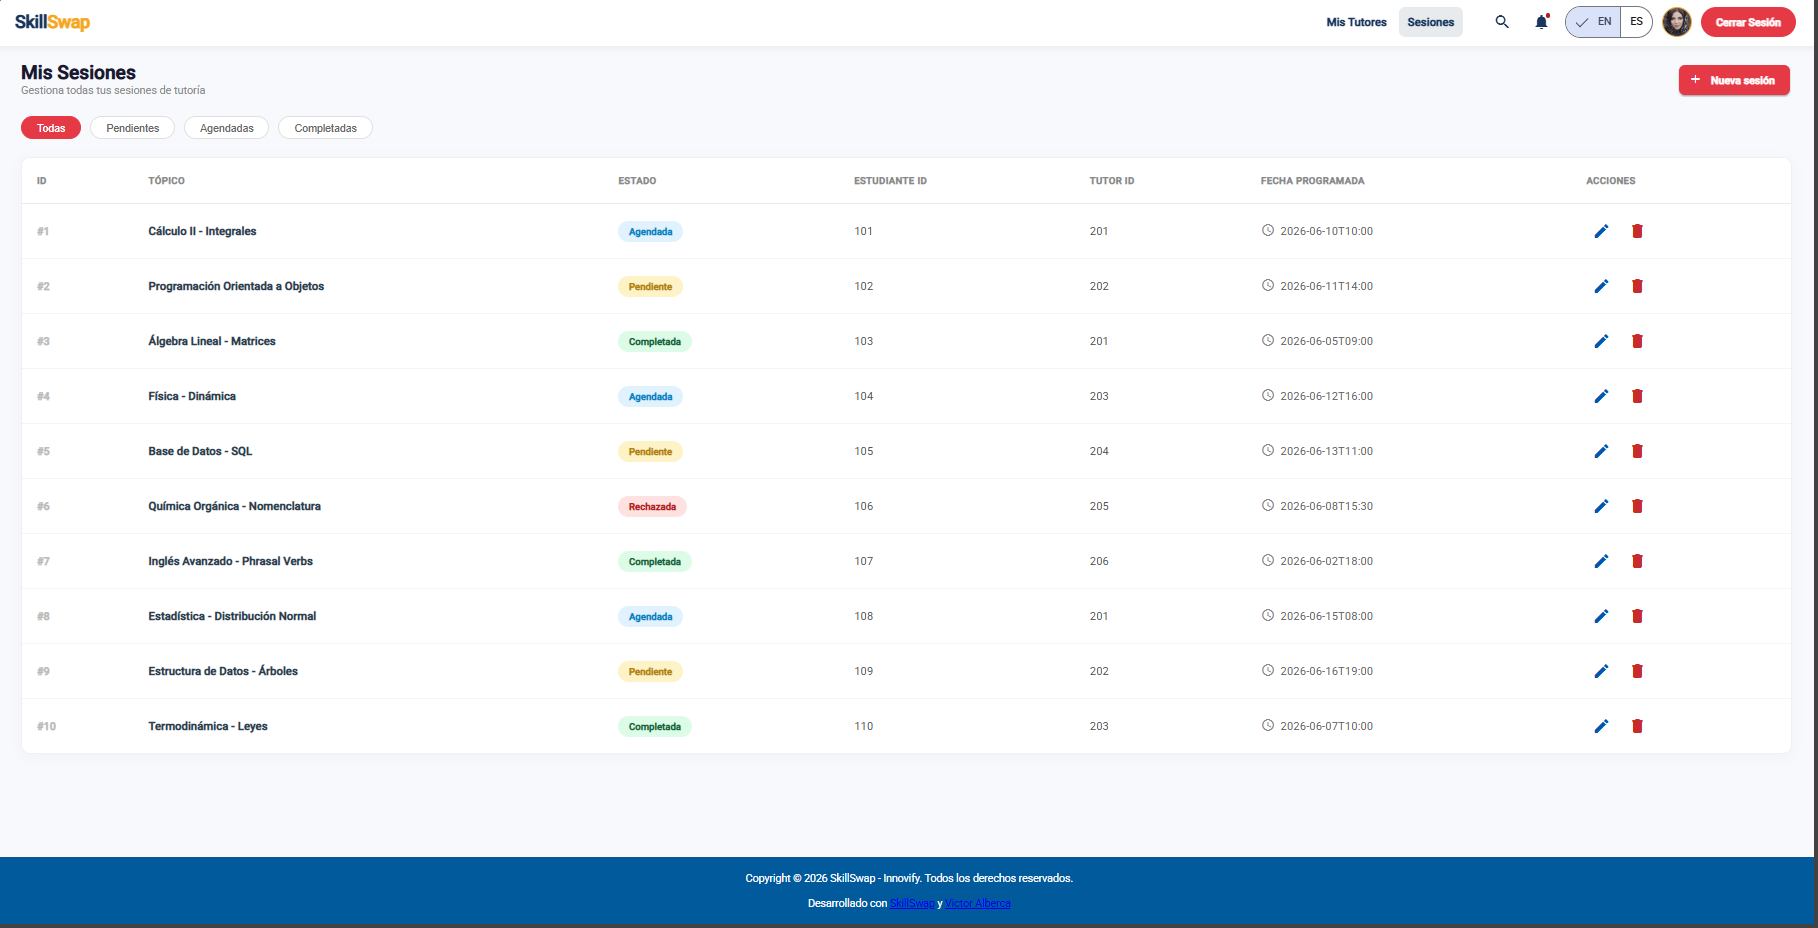
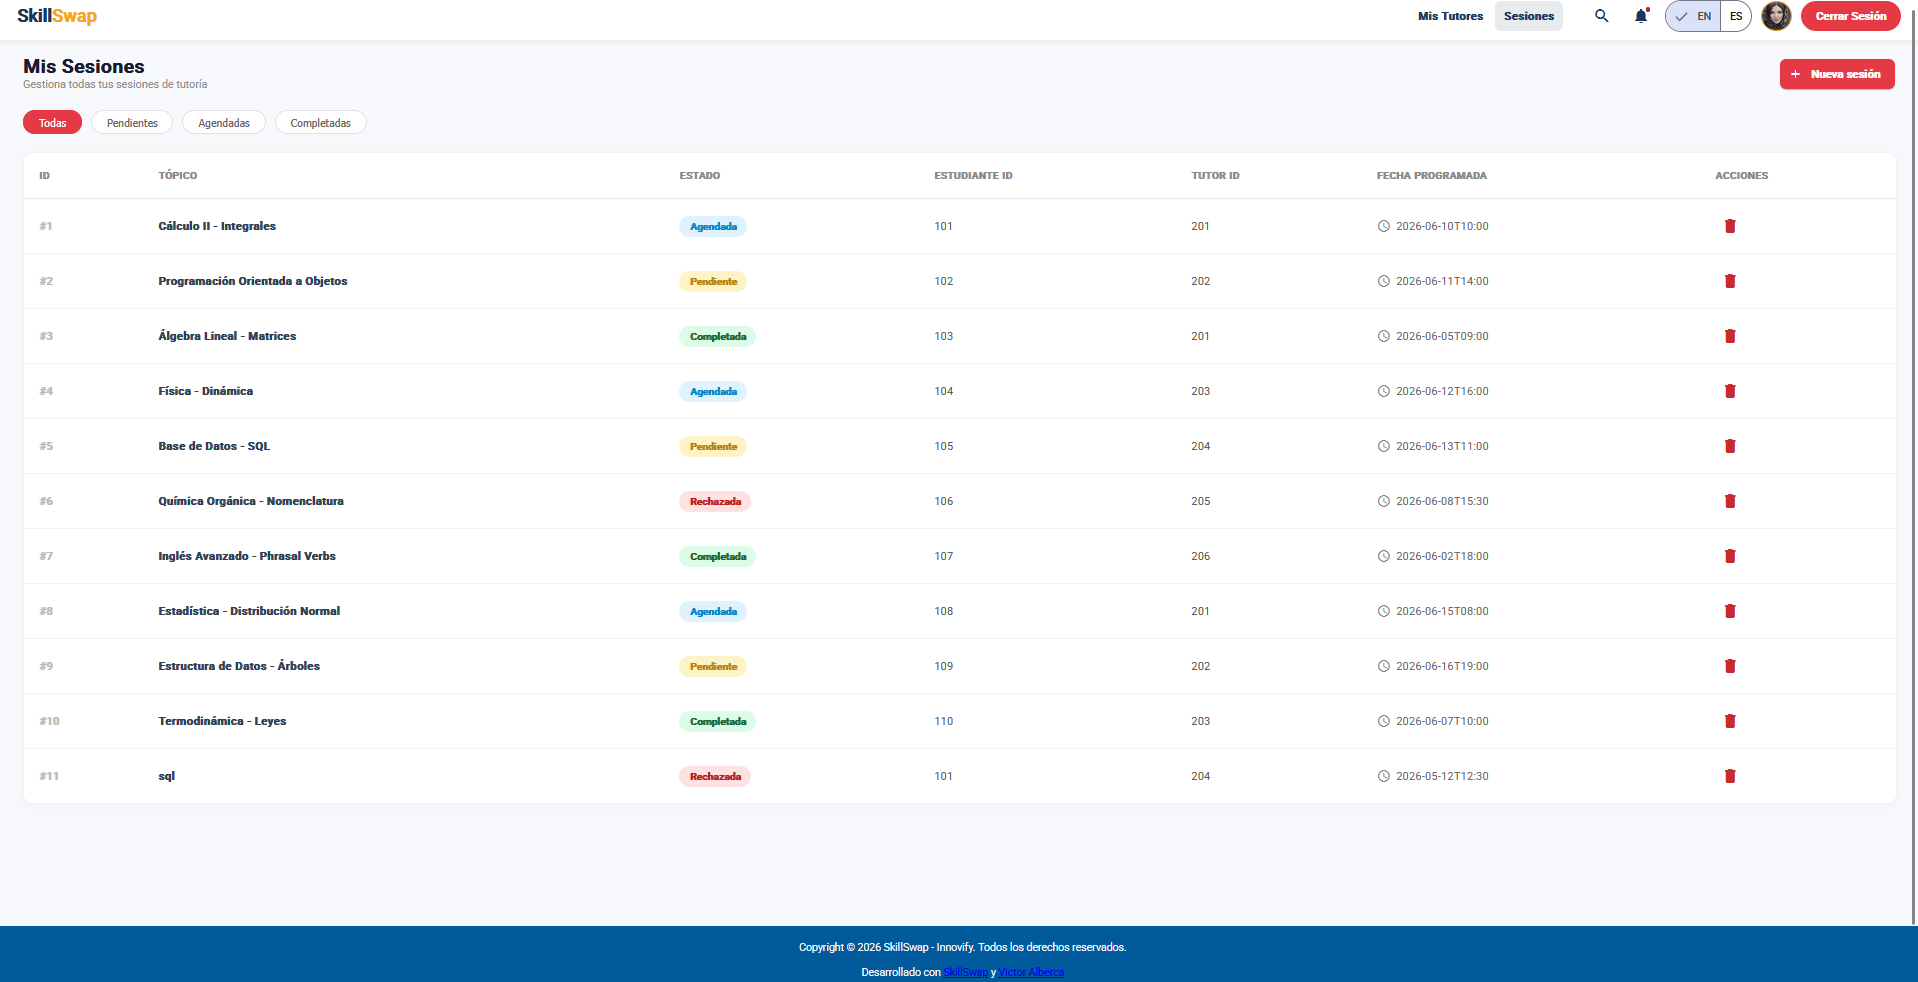
actuliazando

diff --git a/1asi0729-11990-Skillswap-report-avn01.md b/1asi0729-11990-Skillswap-report-avn01.md
@@ -52,7 +52,7 @@
 
 En esta sección se indica el URL del repositorio utilizado para la elaboración colaborativa del Informe de Trabajo Final, así como las evidencias de participación de cada integrante del equipo durante el desarrollo de la entrega TB1.
 
-**URL del repositorio del Project Report (GitHub):** https://github.com/Open-Source-2026-1/SkillSwape-UPC.git 
+**URL del repositorio del Project Report (GitHub):** https://github.com/Open-Source-2026-1/Frontend-SkillSwap.git 
 
 ---
 
@@ -65,7 +65,7 @@ A continuación, se presentan las capturas de los analíticos de colaboración d
 <figure style="text-align: center; margin-bottom: 40px;">
   <img src="public/assets/images-doc/PR1.png" alt="Analíticos de colaboración - Project Report" width="800">
   <figcaption style="margin-top: 10px;">
-    <em>Figura 1. Gráfico de contribuciones al repositorio del Project Report durante AV1. Se evidencia la participación de todos los integrantes del equipo mediante commits realizados en el período correspondiente.</em>
+    <em>Figura 1. Gráfico de contribuciones al repositorio del Project Report durante TB1. Se evidencia la participación de todos los integrantes del equipo mediante commits realizados en el período correspondiente.</em>
   </figcaption>
 </figure>
 
@@ -79,7 +79,7 @@ A continuación, se presentan las capturas de los analíticos de colaboración d
 <figure style="text-align: center; margin-bottom: 40px;">
   <img src="public/assets/images-doc/PR3.png" alt="Contribuciones por integrante - Project Report" width="800">
   <figcaption style="margin-top: 10px;">
-    <em>Figura 3. Panel de contribuciones individuales al repositorio del Project Report, mostrando el volumen de commits, líneas añadidas y eliminadas por cada integrante durante la elaboración de AV1.</em>
+    <em>Figura 3. Panel de contribuciones individuales al repositorio del Project Report, mostrando el volumen de commits, líneas añadidas y eliminadas por cada integrante durante la elaboración de TB1.</em>
   </figcaption>
 </figure>
 
@@ -3147,7 +3147,7 @@ Cada integrante participó activamente en el desarrollo de componentes específi
 
 | Repository                  | Branch                      | Commit Id                               | Commit Message                       | Commit Message Body                                                                  | Committed on (Date) |
 | :-------------------------- | :-------------------------- | :-------------------------------------- | :----------------------------------- | :----------------------------------------------------------------------------------- | :------------------ |
-| innovify/SkillSwap-Frontend | feature/workspace-sessions  | a52d1b8c8d15e2d1c2db5416b2b3eab453ab111 | feat: implement sessions table       | Developed the Sessions module with dynamic table structure and fake API integration. | 11/05/2026          |
+| innovify/SkillSwap-Frontend | feature/workspace-sessions  | 3065dc3da029f6af5cb4c63f21dcde366d9364be| feat: implement sessions table       | Add files via upload| 11/05/2026          |
 | innovify/SkillSwap-Frontend | feature/workspace-messages  | c31fa295a0cca57e6b10e6233908f4acff34f22 | feat: add messages interface         | Created messaging interface with responsive layout and simulated conversations.      | 11/05/2026          |
 | innovify/SkillSwap-Frontend | feature/discovery-courses   | d81acbe6d66b1fef8c54e27f3a25cb17293a8e1 | feat: add discovery courses screen   | Implemented discovery module to browse available courses and tutors.                 | 11/05/2026          |
 | innovify/SkillSwap-Frontend | feature/learning-progress   | 83ba26e1774cacc0e3024dcf9b7b1ab22a9b881 | feat: build learning dashboard       | Added frontend structure for learning progress visualization.                        | 12/05/2026          |
@@ -3169,9 +3169,17 @@ Cada integrante participó activamente en el desarrollo de componentes específi
   </figcaption>
 </figure>
 
-**Enlace de la página web para observar la implementación del Sprint 1:**
+**Enlace de la página web para observar la implementación del Sprint 2:**
 
- **https://github.com/Open-Source-2026-1/SkillSwape-UPC.git**
+ LINK-Discovery-Learning & Assesment: **https://github.com/Open-Source-2026-1/SkillSwape-UPC.git**
+
+ LINK-Workspace: **https://github.com/Open-Source-2026-1/SkillSwape-UPC.git**
+
+ LINK-Moderation & Disputes: **https://github.com/Open-Source-2026-1/SkillSwape-UPC.git**
+
+ LINK-Reputation SystemE: **https://github.com/Open-Source-2026-1/SkillSwape-UPC.git**
+
+ LINK-Payment & WalletE: **https://github.com/Open-Source-2026-1/SkillSwape-UPC.git**
 
 ---
 
@@ -3207,7 +3215,7 @@ El módulo Workspace permitió visualizar sesiones programadas y conversaciones 
 <figure style="text-align: center; margin-bottom: 40px;">
   <img src="public/assets/images-doc/evidencia-reports.png" alt="Evidencias UI Sprint 1" width="800">
   <figcaption style="margin-top: 10px;">
-    <em>Figura 111. Diseño estático del formulario de autenticación, estructurado con sus campos respectivos para la futura integración con los servicios de validación de credenciales.</em>
+    <em>Figura. Se observa la interfaz de los reportes por parte de los profesores.</em>
   </figcaption>
 </figure>
 
@@ -3216,7 +3224,7 @@ El módulo Workspace permitió visualizar sesiones programadas y conversaciones 
 <figure style="text-align: center; margin-bottom: 40px;">
   <img src="public/assets/images-doc/evidencias-tutors.png" alt="Evidencias UI Sprint 1" width="800">
   <figcaption style="margin-top: 10px;">
-    <em>Figura 112. Vista frontal del formulario de registro estático que ilustra la disposición de los campos de recolección de datos necesarios para la creación de nuevas cuentas.</em>
+    <em>Figura. Se observa la interfaz de cómo el estudiante podrá encontrar las reseñas de los tutores.</em>
   </figcaption>
 </figure>
 
@@ -3225,13 +3233,13 @@ El módulo Workspace permitió visualizar sesiones programadas y conversaciones 
 <figure style="text-align: center; margin-bottom: 40px;">
   <img src="public/assets/images-doc/evidencias-discovery&learnign.png" alt="Evidencias UI Sprint 1" width="800">
   <figcaption style="margin-top: 10px;">
-    <em>Figura 113. La figura muestra la sección de equipo del landing page de SkillSwap, con fotos, nombres y roles técnicos de cada integrante, permitiendo visualizar la estructura y composición del equipo de ingeniería.</em>
+    <em>Figura. Se observa la interfaz de cómo el estuidante podrá encontrar a los tutores en la plataforma .</em>
   </figcaption>
 </figure>
 
 <br><br>
 
-**Video demostrativo de las funciones del Sprint 1:**
+**Video demostrativo de las funciones del Sprint 2:**
 <figure style="text-align: center; margin-bottom: 40px;">
   <a href="https://upcedupe-my.sharepoint.com/:v:/g/personal/u201924127_upc_edu_pe/IQBRnpVnIxplRo7iLHOvEiZqAV2Dj9KLYVmcGKSInUeAjkQ?e=ZL65jW&nav=eyJyZWZlcnJhbEluZm8iOnsicmVmZXJyYWxBcHAiOiJTdHJlYW1XZWJBcHAiLCJyZWZlcnJhbFZpZXciOiJTaGFyZURpYWxvZy1MaW5rIiwicmVmZXJyYWxBcHBQbGF0Zm9ybSI6IldlYiIsInJlZmVycmFsTW9kZSI6InZpZXcifX0%3D" target="_blank">
     <img src="" alt="Video Demostrativo Sprint 2" width="600">
@@ -3239,6 +3247,7 @@ El módulo Workspace permitió visualizar sesiones programadas y conversaciones 
   <figcaption style="margin-top: 10px;">
     <br>
     <em>Acá se presenta el video con todas las funcionalidades del sprint 2 explicadas.</em>
+    link:
   </figcaption>
 </figure>
 <br>
@@ -3261,9 +3270,17 @@ La integración de servicios reales y documentación OpenAPI será abordada en f
 
 
 #### 5.2.2.7.Software Deployment Evidence for Sprint Review.
-Durante este Sprint, el despliegue del proyecto estuvo enfocado en la publicación del frontend de SkillSwap y en la configuración colaborativa del entorno de trabajo utilizando GitHub y GitHub Pages.
+Durante este Sprint, el despliegue del proyecto SkillSwap se centró en la publicación del frontend mediante Firebase Hosting y la configuración de una Fake API global utilizando My JSON Server. Estas acciones permitieron que el equipo contara con un entorno de producción real y persistente para las revisiones de software.
 
-Las actividades realizadas incluyeron la creación del repositorio principal, configuración de ramas main y develop, organización mediante GitFlow y despliegue automático del frontend para visualizar los avances del Sprint en un entorno accesible públicamente.
+Las actividades clave incluyeron:
+
+- Configuración de Environments: Sincronización del serverBasePath para apuntar al servidor REST remoto.
+
+- Build de Producción: Generación de artefactos optimizados mediante Angular CLI.
+
+- Hosting en Firebase: Inicialización y despliegue del directorio dist en la infraestructura de Google, asegurando el soporte para una Single-Page Application (SPA)
+
+<br>
 
 La implementación desplegada contiene las vistas correspondientes a Workspace, Discovery, Learning, Assessment, Moderation y Reputation, todas desarrolladas utilizando componentes frontend y datos simulados mediante Fake API.
 
@@ -3272,7 +3289,7 @@ La implementación desplegada contiene las vistas correspondientes a Workspace, 
 <figure style="text-align: center; margin-bottom: 40px;">
   <img src="public/assets/images-doc/" alt="Team Commits Evidence" width="800">
   <figcaption style="margin-top: 10px;">
-    <em>Figura 114. En esta figura se observa el código fuente del archivo index.html dentro del repositorio, mostrando específicamente la estructura de la barra de navegación, la inserción del logotipo y las rutas hacia las distintas vistas del proyecto.</em>
+    <em>Figura. Estructura del archivo db.json en el repositorio de GitHub y su visualización exitosa en el navegador a través de My JSON Server.</em>
   </figcaption>
 </figure>
 
@@ -3281,7 +3298,7 @@ La implementación desplegada contiene las vistas correspondientes a Workspace, 
 <figure style="text-align: center; margin-bottom: 40px;">
   <img src="public/assets/images-doc/" alt="Team Commits Evidence" width="800">
   <figcaption style="margin-top: 10px;">
-    <em>Figura 115. En la imagen tenemos la hoja de estilos aboutus_stylesheet.css, donde se evidencia la configuración inicial de la fuente tipográfica y la definición de variables globales (:root) para estandarizar la paleta de colores de la interfaz.</em>
+    <em>Figura. Configuración de los archivos environment.ts y environment.development.ts, donde se aprecia la nueva URL base apuntando al servidor de datos simulados.</em>
   </figcaption>
 </figure>
 
@@ -3290,7 +3307,7 @@ La implementación desplegada contiene las vistas correspondientes a Workspace, 
 <figure style="text-align: center; margin-bottom: 40px;">
   <img src="public/assets/images-doc/" alt="Team Commits Evidence" width="800">
   <figcaption style="margin-top: 10px;">
-    <em>Figura 116. Se observa el panel de configuración de GitHub Pages, el cual confirma que el sitio web se encuentra activo y ha sido desplegado exitosamente en un entorno de producción mediante el uso de GitHub Actions.</em>
+    <em>Figura.Consola de Firebase Hosting, mostrando el historial de despliegues exitosos y la URL activa (.web.app) generada para el proyecto.</em>
   </figcaption>
 </figure>
 
@@ -3299,7 +3316,7 @@ La implementación desplegada contiene las vistas correspondientes a Workspace, 
 <figure style="text-align: center; margin-bottom: 40px;">
   <img src="public/assets/images-doc/" alt="Team Commits Evidence" width="800">
   <figcaption style="margin-top: 10px;">
-    <em>Figura 117. En esta figura se visualiza la interfaz de la página principal (Landing Page) ya renderizada y accesible desde un navegador web, confirmando la correcta publicación y disponibilidad del proyecto en línea.</em>
+    <em>Figura. Interfaz de la página principal (Landing Page) de SkillSwap renderizada desde el dominio de Firebase, confirmando la integración total del frontend con la API simulada.</em>
   </figcaption>
 </figure>
 
@@ -3309,7 +3326,17 @@ En conjunto, estas evidencias demuestran el correcto despliegue y disponibilidad
 
 <br>
 
-**Enlace de la página web (Sprint 2):** [ https://open-source-2026-1.github.io/SkillSwape-UPC/]( https://open-source-2026-1.github.io/SkillSwape-UPC/)
+**Enlaces de la página web (Sprint 2):** 
+
+ LINK-Discovery-Learning & Assesment: **https://github.com/Open-Source-2026-1/SkillSwape-UPC.git**
+
+ LINK-Workspace: **https://github.com/Open-Source-2026-1/SkillSwape-UPC.git**
+
+ LINK-Moderation & Disputes: **https://github.com/Open-Source-2026-1/SkillSwape-UPC.git**
+
+ LINK-Reputation SystemE: **https://github.com/Open-Source-2026-1/SkillSwape-UPC.git**
+ 
+ LINK-Payment & WalletE: **https://github.com/Open-Source-2026-1/SkillSwape-UPC.git**
 
 ---
 
@@ -3327,7 +3354,7 @@ A continuación, se presentan las evidencias de colaboración y actividad del eq
 <figure style="text-align: center; margin-bottom: 40px;">
   <img src="public/assets/images-doc/" alt="Team Commits Evidence" width="800">
   <figcaption style="margin-top: 10px;">
-    <em>Figura 118. En esta figura se observa el gráfico de actividad Commits over time, destacando un periodo de alta concentración de contribuciones y confirmaciones de código durante la primera quincena del mes de abril de 2026.</em>
+    <em>Figura. En esta figura se observa el gráfico de actividad Commits over time, destacando un periodo de alta concentración de contribuciones y confirmaciones de código durante la primera quincena del mes de abril de 2026.</em>
   </figcaption>
 </figure>
 
@@ -3345,7 +3372,7 @@ A continuación, se presentan las evidencias de colaboración y actividad del eq
 <figure style="text-align: center; margin-bottom: 40px;">
   <img src="public/assets/images-doc/" alt="Team Commits Evidence" width="800">
   <figcaption style="margin-top: 10px;">
-    <em>Figura 120. Se observa el listado de confirmaciones recientes en el repositorio, evidenciando la coexistencia de integraciones de ramas (Merge pull requests), la aplicación de Conventional Commits (feat:) y subidas de código directas.</em>
+    <em>Figura. Se observa el listado de confirmaciones recientes en el repositorio, evidenciando la coexistencia de integraciones de ramas (Merge pull requests), la aplicación de Conventional Commits (feat:) y subidas de código directas.</em>
   </figcaption>
 </figure>
 
@@ -3354,7 +3381,7 @@ A continuación, se presentan las evidencias de colaboración y actividad del eq
 <figure style="text-align: center; margin-bottom: 40px;">
   <img src="public/assets/images-doc/" alt="Team Commits Evidence" width="800">
   <figcaption style="margin-top: 10px;">
-    <em>Figura 121. En esta figura se detalla un Pull Request estructurado, mostrando una descripción clara mediante viñetas sobre los cambios introducidos y el indicador de validación en verde (Ready to merge), lo que confirma que está listo para integrarse sin problemas.</em>
+    <em>Figura. En esta figura se detalla un Pull Request estructurado, mostrando una descripción clara mediante viñetas sobre los cambios introducidos y el indicador de validación en verde (Ready to merge), lo que confirma que está listo para integrarse sin problemas.</em>
   </figcaption>
 </figure>
 
@@ -3363,7 +3390,7 @@ A continuación, se presentan las evidencias de colaboración y actividad del eq
 <figure style="text-align: center; margin-bottom: 40px;">
   <img src="public/assets/images-doc/" alt="Team Commits Evidence" width="800">
   <figcaption style="margin-top: 10px;">
-    <em>Figura 122. En la imagen se evidencia un Pull Request que presenta problemas de integración, resaltando la alerta roja de conflictos de código (Merge conflicts) y la ausencia de una descripción (No description provided), lo que indica que se requiere una resolución manual antes de la fusión.</em>
+    <em>Figura. En la imagen se evidencia un Pull Request que presenta problemas de integración, resaltando la alerta roja de conflictos de código (Merge conflicts) y la ausencia de una descripción (No description provided), lo que indica que se requiere una resolución manual antes de la fusión.</em>
   </figcaption>
 </figure>
 <br>